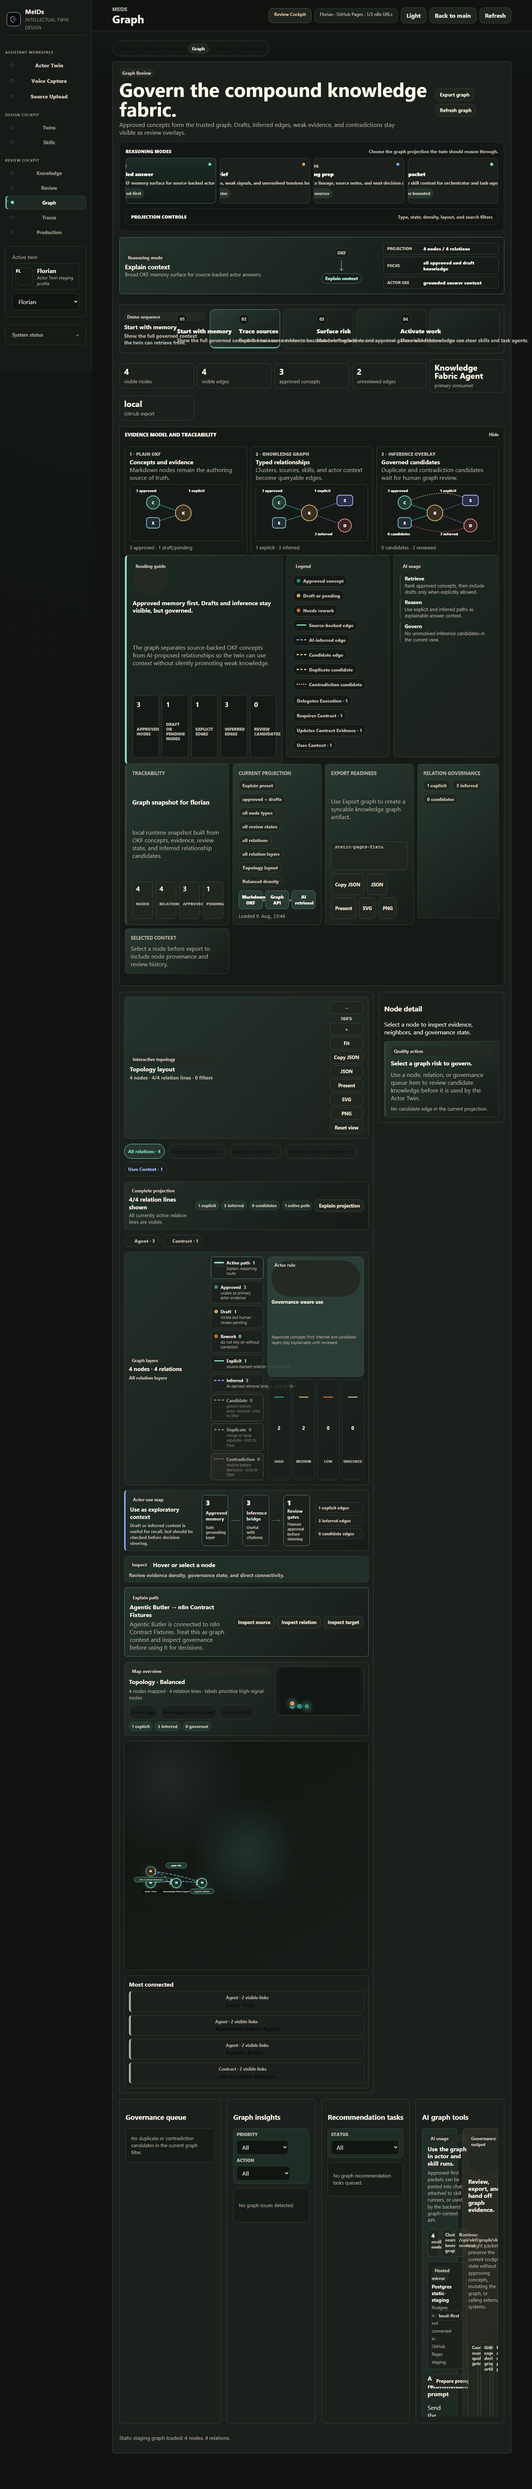
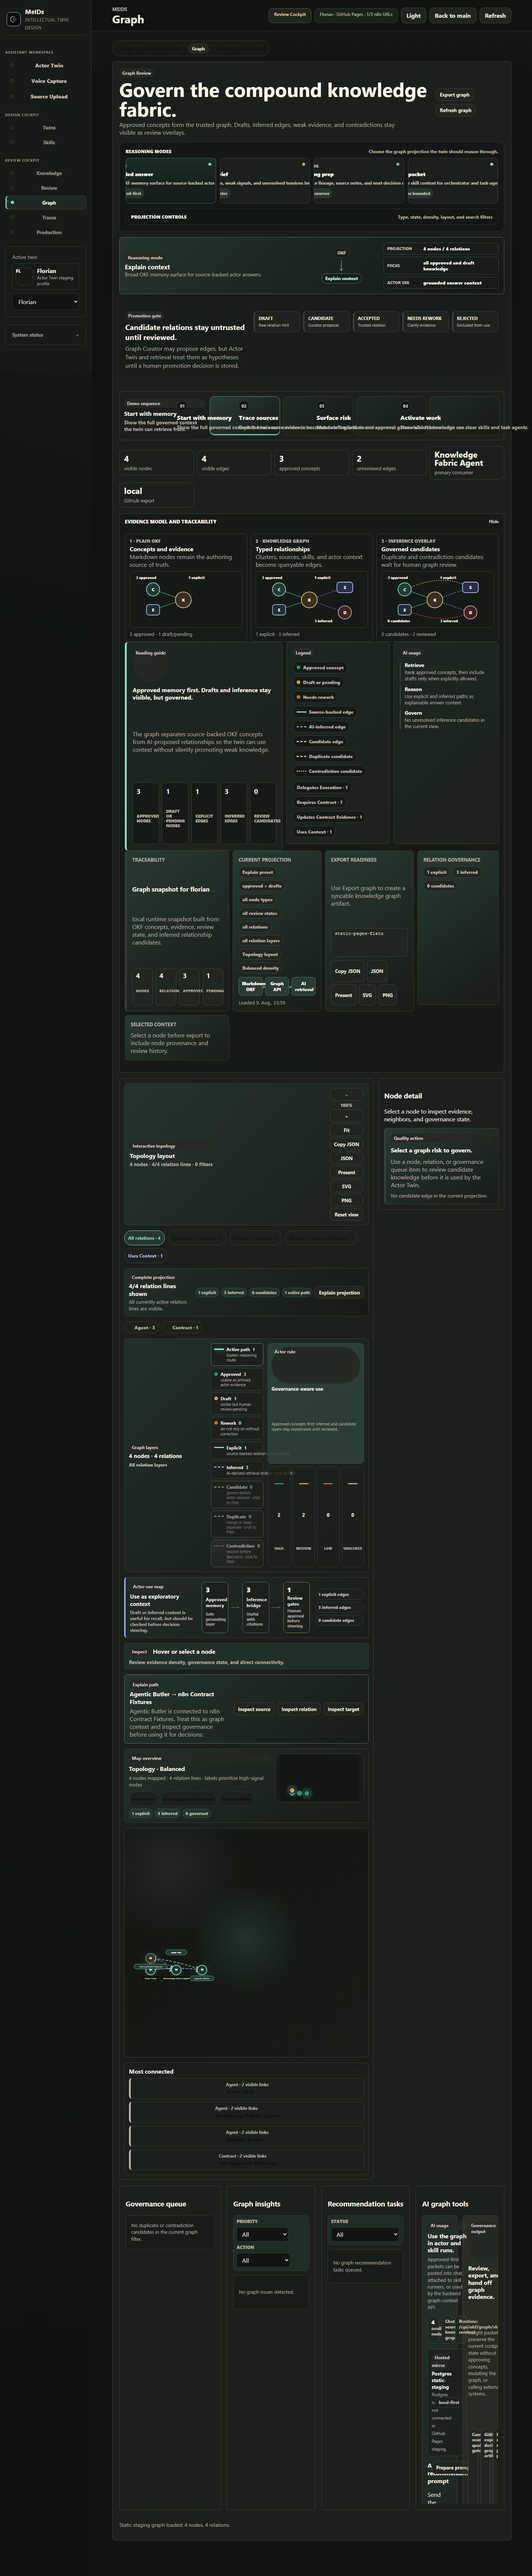
Surface graph promotion gate

diff --git a/frontend/styles.css b/frontend/styles.css
@@ -7496,9 +7496,101 @@ body.theme-dark .graph-svg-edge-label text {
   fill: #f6f1e7;
 }
 
+.graph-promotion-gate-panel {
+  align-items: start;
+  border: 1px solid var(--border);
+  border-radius: 12px;
+  background: var(--surface-muted);
+  display: grid;
+  gap: 16px;
+  grid-template-columns: minmax(240px, 0.5fr) minmax(0, 1fr);
+  margin: 14px 0;
+  padding: 16px;
+}
+
+.graph-promotion-gate-panel h3 {
+  font-size: 20px;
+  margin: 8px 0 6px;
+}
+
+.graph-promotion-gate-panel p {
+  color: var(--muted);
+  line-height: 1.45;
+  margin: 0;
+}
+
+.graph-promotion-flow {
+  display: grid;
+  gap: 8px;
+  grid-template-columns: repeat(5, minmax(0, 1fr));
+}
+
+.graph-promotion-flow span {
+  border: 1px solid color-mix(in srgb, var(--line) 78%, transparent);
+  border-left: 4px solid #d7a84f;
+  border-radius: 10px;
+  background: color-mix(in srgb, var(--surface) 86%, transparent);
+  min-width: 0;
+  padding: 10px;
+}
+
+.graph-promotion-flow span.approved {
+  border-left-color: #34c795;
+}
+
+.graph-promotion-flow span.needs-rework {
+  border-left-color: #d7a84f;
+}
+
+.graph-promotion-flow span.rejected {
+  border-left-color: #d9826b;
+}
+
+.graph-promotion-flow strong,
+.graph-promotion-flow small {
+  display: block;
+  overflow-wrap: anywhere;
+}
+
+.graph-promotion-flow strong {
+  color: var(--ink);
+  font-size: 12px;
+  text-transform: uppercase;
+}
+
+.graph-promotion-flow small {
+  color: var(--muted);
+  font-size: 11px;
+  line-height: 1.35;
+  margin-top: 4px;
+}
+
+body.theme-dark .graph-promotion-gate-panel {
+  border-color: rgba(241, 235, 224, 0.16);
+  background: #171d18;
+}
+
+body.theme-dark .graph-promotion-flow span {
+  border-color: rgba(241, 235, 224, 0.14);
+  background: #1d241f;
+}
+
+body.theme-dark .graph-promotion-flow strong {
+  color: #fff8ea;
+}
+
+body.theme-dark .graph-promotion-flow small {
+  color: #c9c0b3;
+}
+
 @media (max-width: 900px) {
   #chat.view.active {
     padding-top: 28px;
+  }
+
+  .graph-promotion-gate-panel,
+  .graph-promotion-flow {
+    grid-template-columns: minmax(0, 1fr);
   }
 
   .chat-workspace-hero {

diff --git a/frontend/index.html b/frontend/index.html
@@ -540,6 +540,8 @@
                   <label for="graphReviewFilter">State</label>
                   <select id="graphReviewFilter" class="compact-select">
                     <option value="all">All states</option>
+                    <option value="draft">Draft</option>
+                    <option value="candidate">Candidate</option>
                     <option value="approved">Approved</option>
                     <option value="pending-review">Pending</option>
                     <option value="needs-rework">Needs rework</option>
@@ -572,6 +574,20 @@
               </details>
             </div>
             <div id="graphPresetSignal" class="graph-preset-signal-wrap" aria-live="polite"></div>
+            <section class="graph-promotion-gate-panel" aria-label="Graph relation promotion workflow">
+              <div>
+                <span class="badge">Promotion gate</span>
+                <h3>Candidate relations stay untrusted until reviewed.</h3>
+                <p>Graph Curator may propose edges, but Actor Twin and retrieval treat them as hypotheses until a human promotion decision is stored.</p>
+              </div>
+              <div class="graph-promotion-flow">
+                <span><strong>draft</strong><small>Raw relation hint</small></span>
+                <span><strong>candidate</strong><small>Curator proposal</small></span>
+                <span class="approved"><strong>accepted</strong><small>Trusted relation</small></span>
+                <span class="needs-rework"><strong>needs rework</strong><small>Clarify evidence</small></span>
+                <span class="rejected"><strong>rejected</strong><small>Excluded from use</small></span>
+              </div>
+            </section>
             <div id="graphDemoFlow" class="graph-demo-flow" aria-label="Graph demo sequence"></div>
             <div id="graphSummary" class="graph-summary-strip"></div>
             <details class="graph-secondary-section" open>
